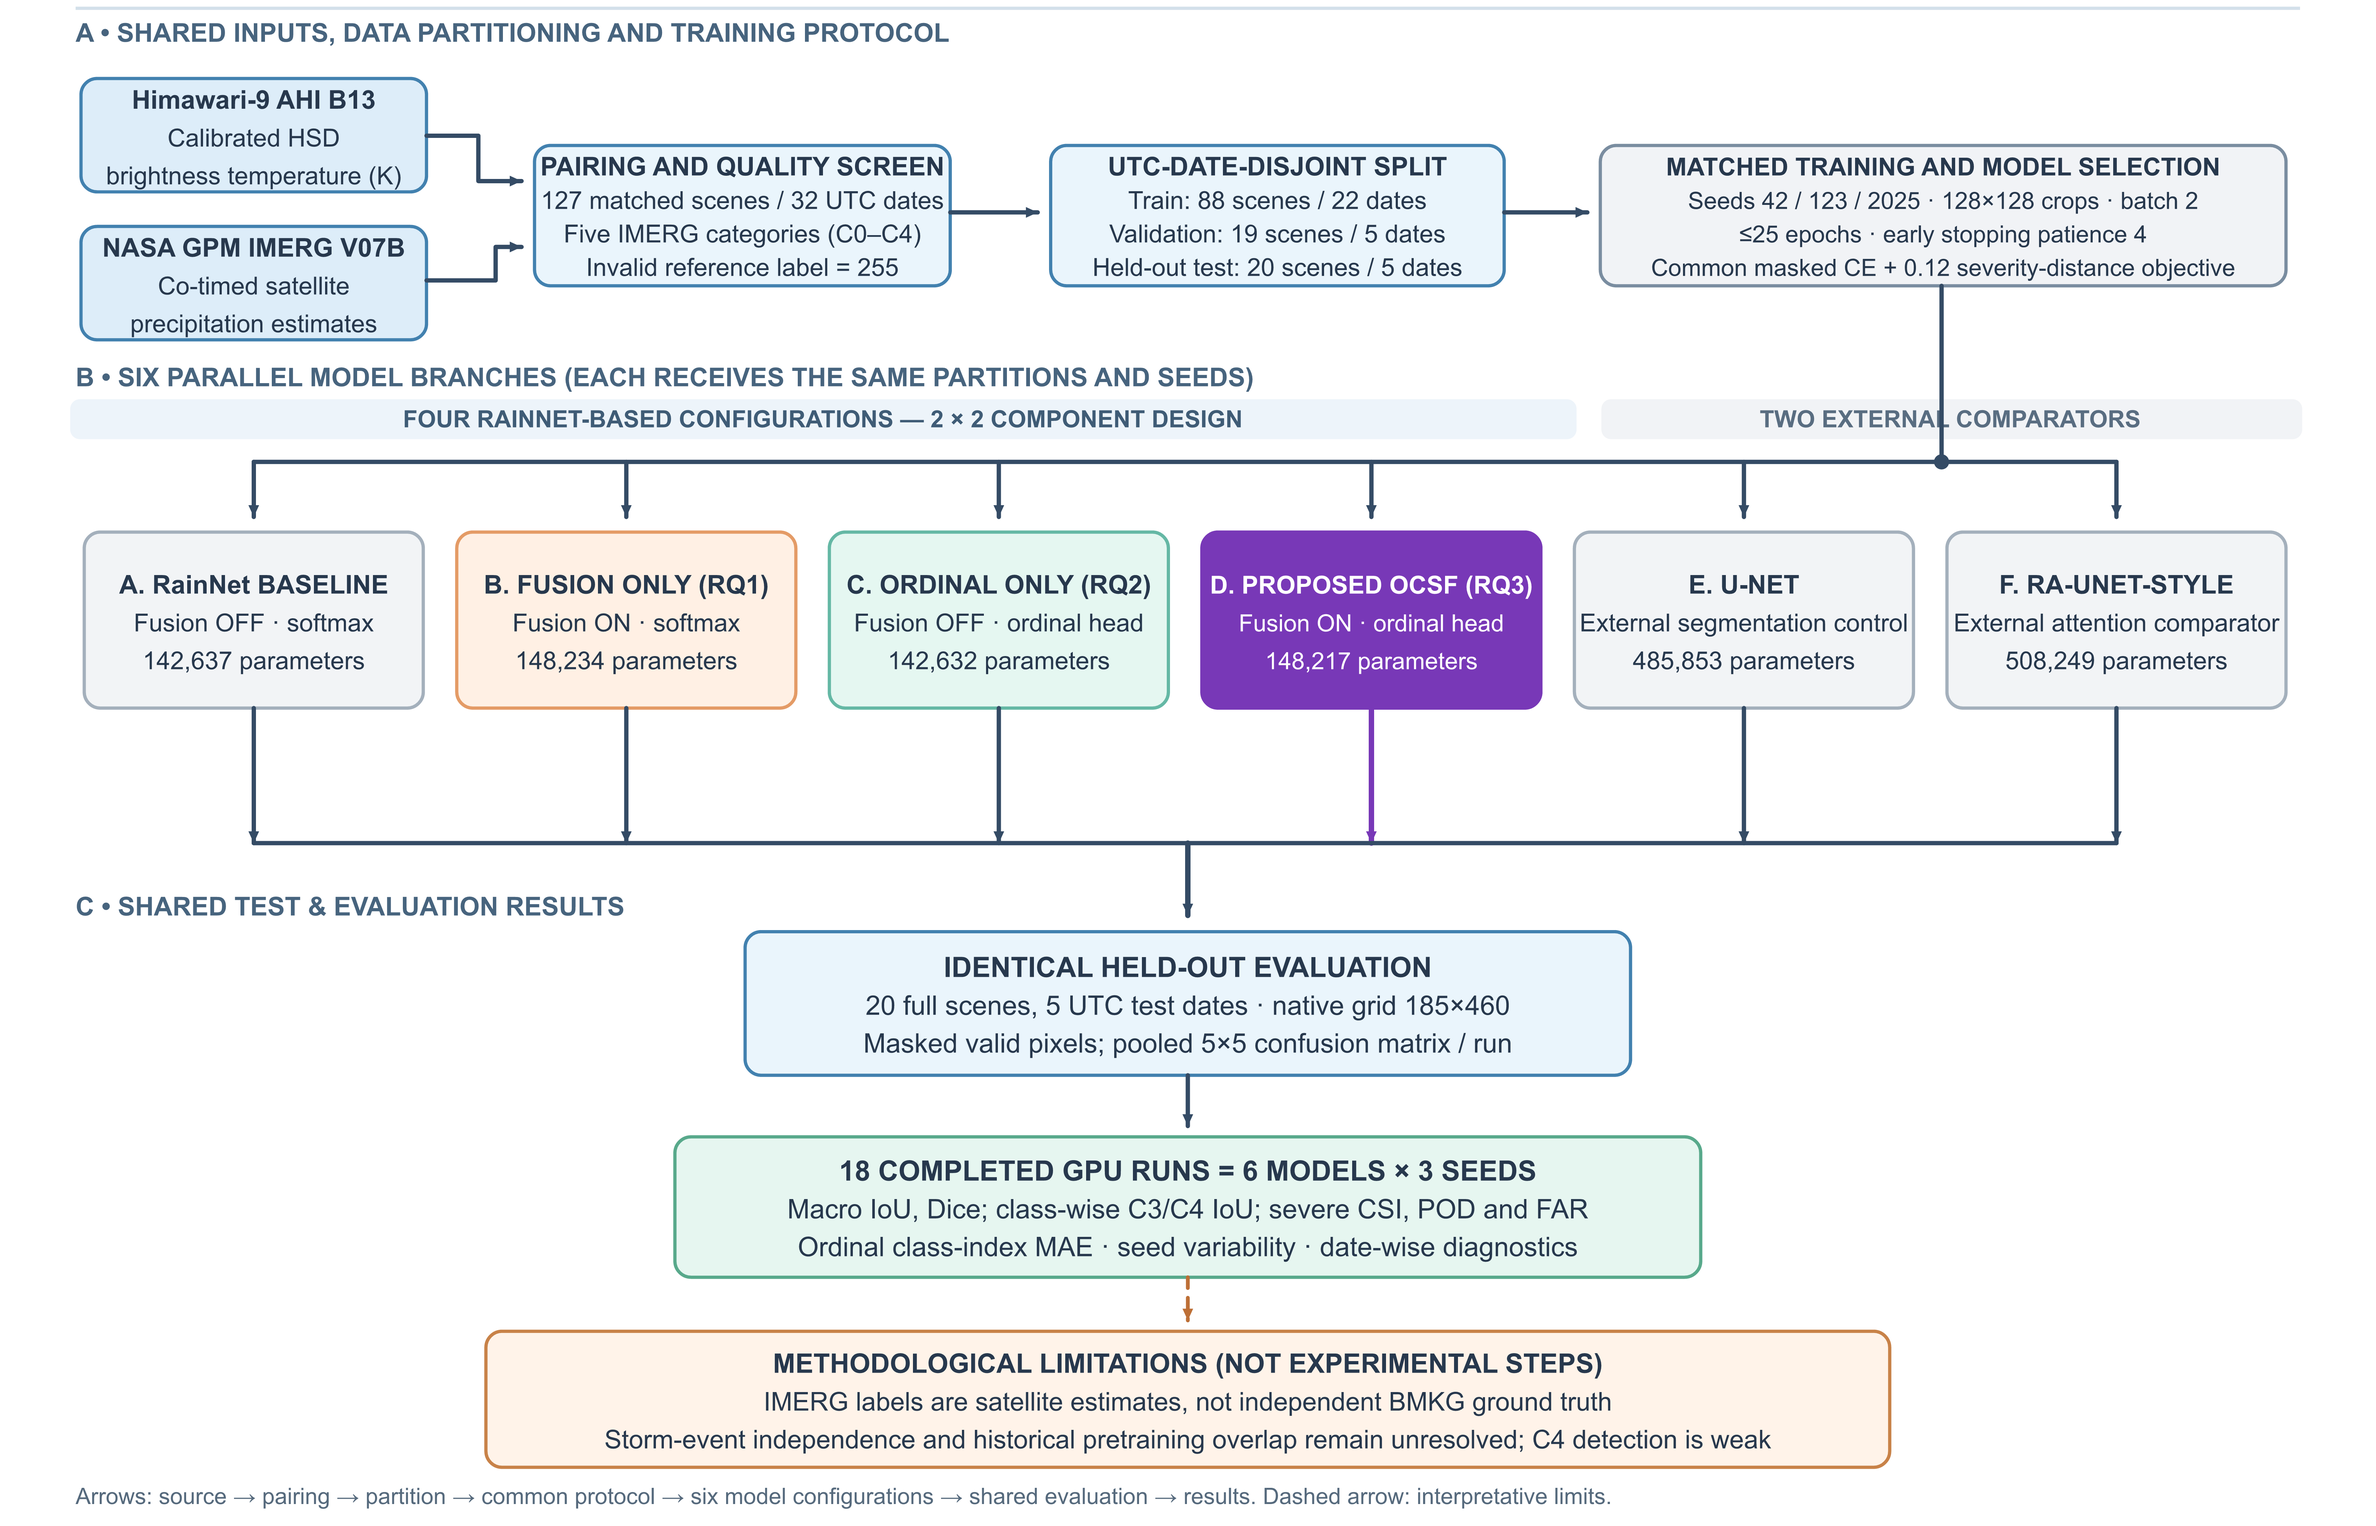
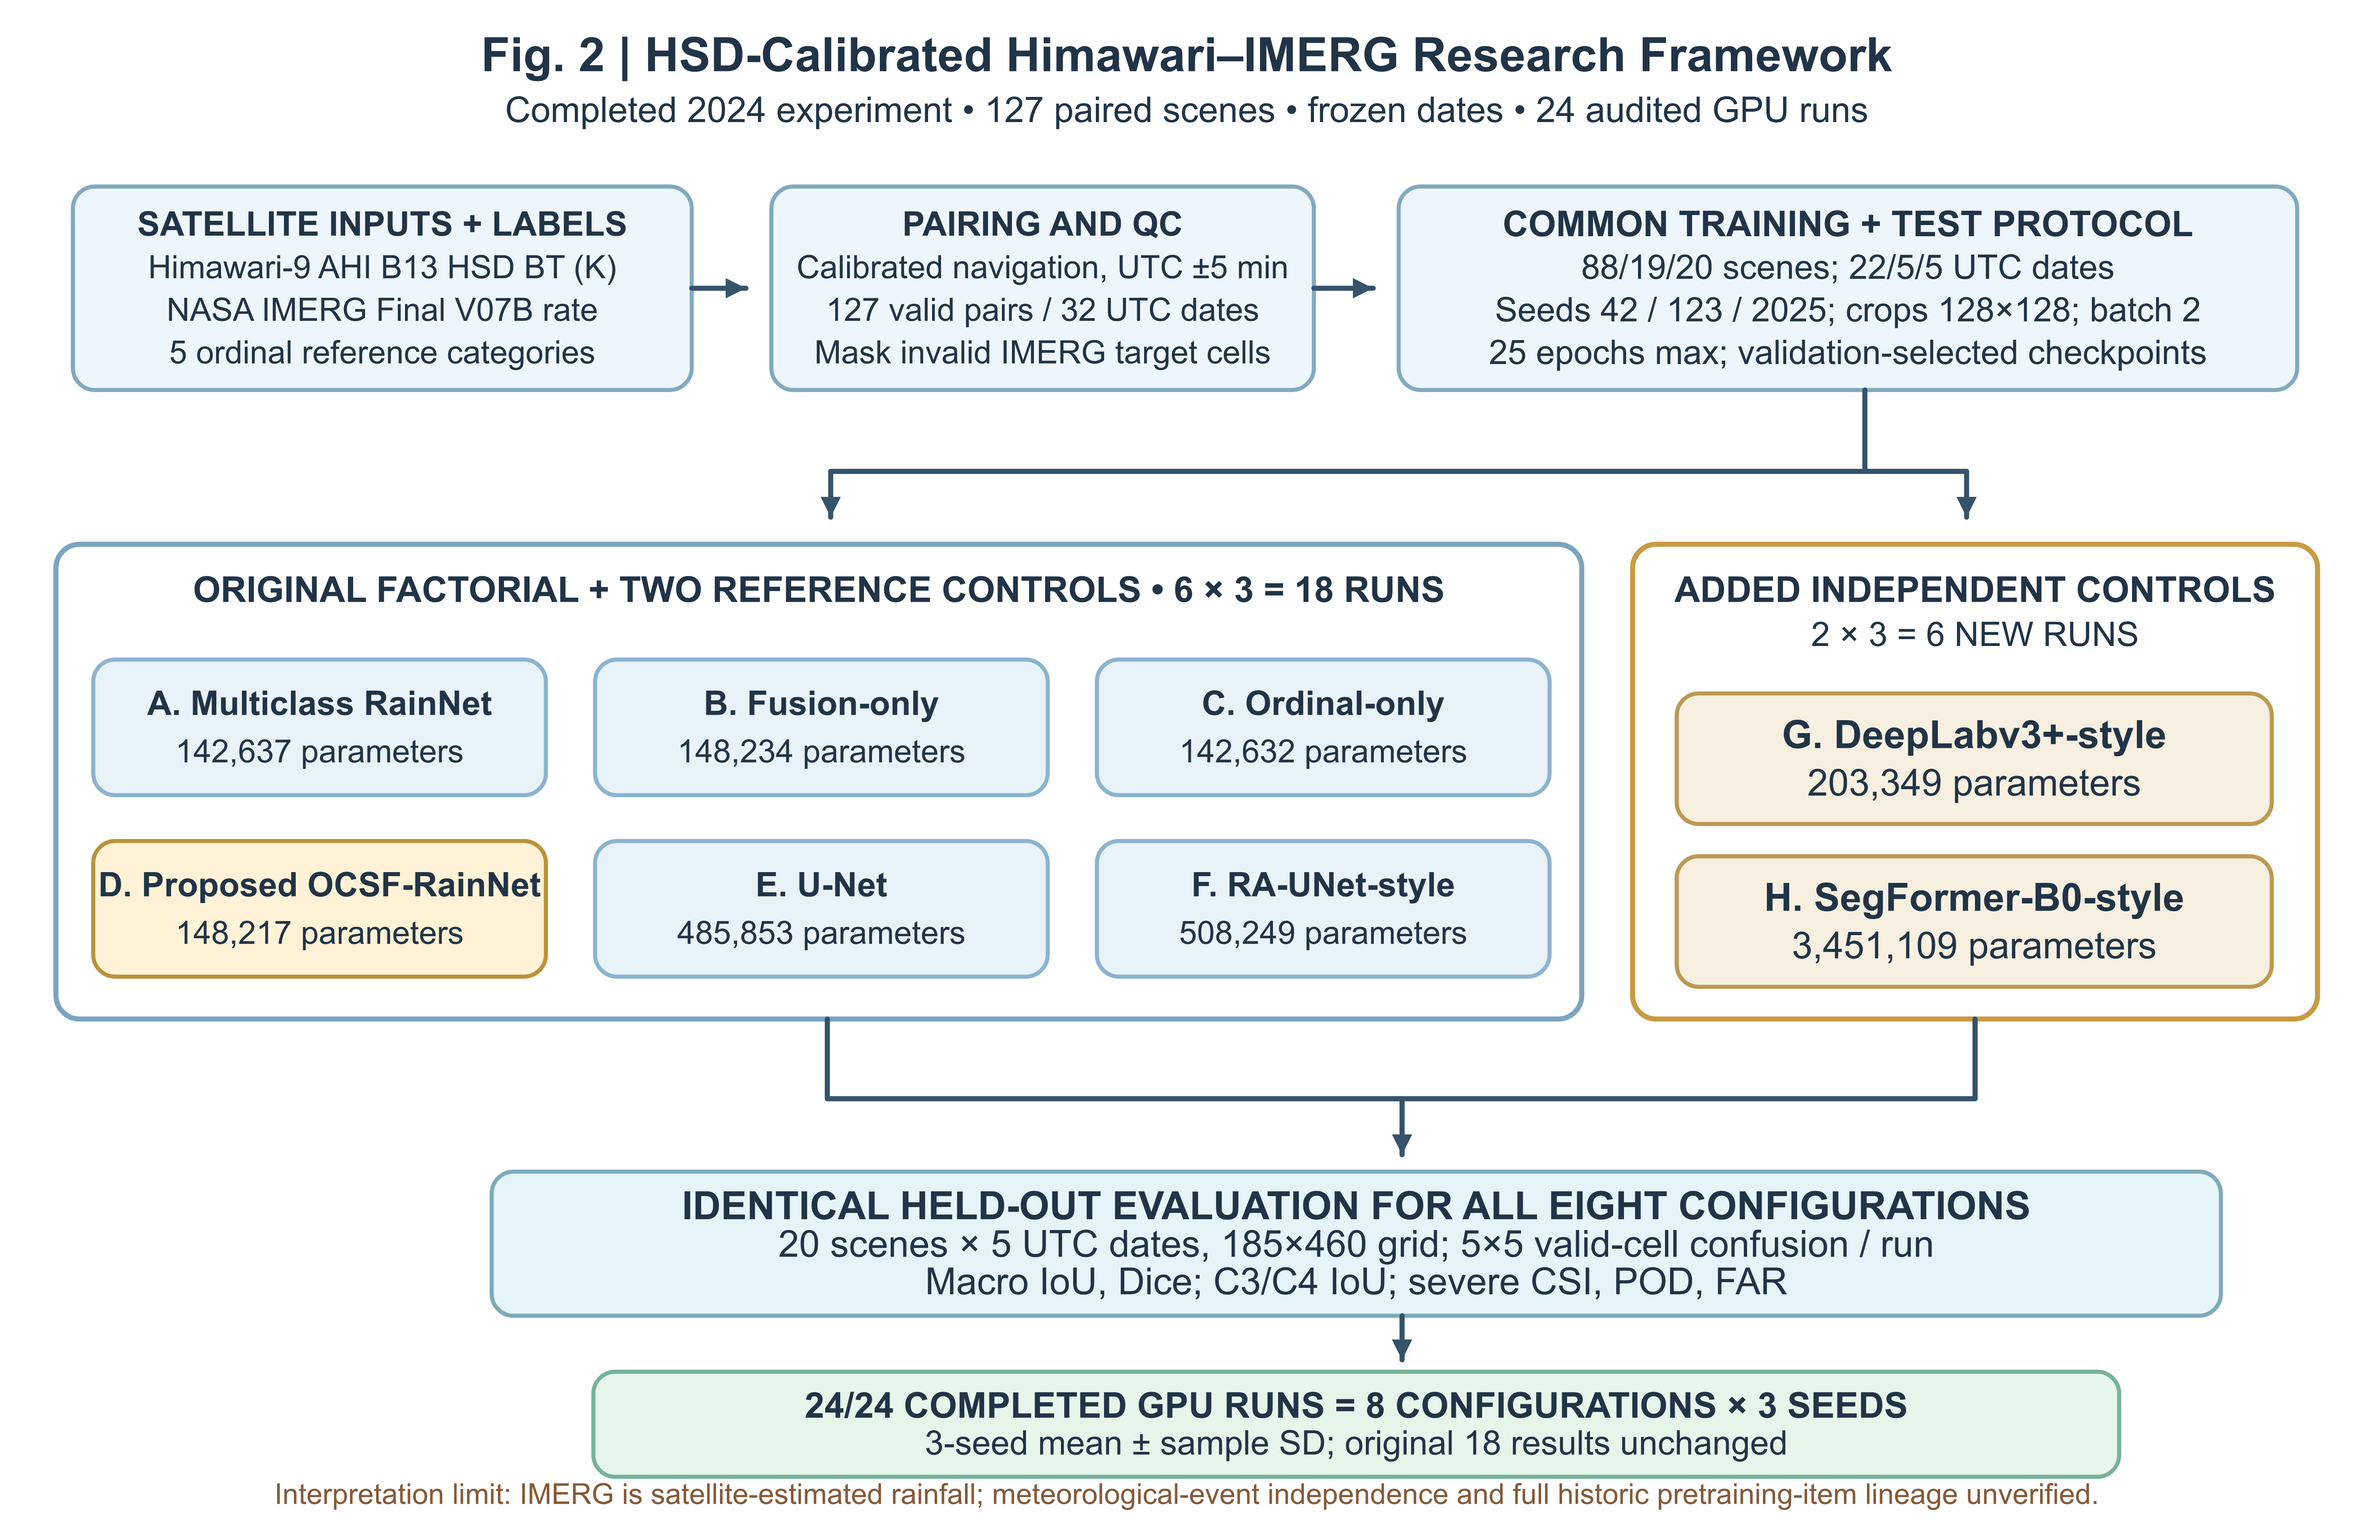
figures: align V11 research framework with 24 run evidence

diff --git a/README.md b/README.md
@@ -27,7 +27,7 @@ The **original 18/18** runs are unchanged: four RainNet factorial variants, U-Ne
 
 **New inspectable evidence:** [24-run methods and caveats](docs/SOTA_24_RUN_COMPARISON_2026-11-23.md) · [structured validation audit](results/sota_2026-11-23/OCSF_24_RUN_PUBLIC_AUDIT.json) · [8-model mean and SD](results/sota_2026-11-23/eight_model_mean_sd.csv) · [6 per-seed results](results/sota_2026-11-23/new_six_seed_metrics.csv) · [6 test confusion matrices](results/sota_2026-11-23/) · [6 executable Kaggle notebooks](notebooks/kaggle/sota_2026-11-23/) · [external model implementations](src/models/ocsf_sota_external_models.py).
 
-**Figures and journal manuscript:** Fig. 2 is intentionally the original six-branch/18-run core (two later comparator families are **not drawn**); Fig. 3 concerns only RainNet control vs OCSF. The **V11 paper updates Tables 4–6 and Fig. 4–5 for all eight configurations**. Repository image galleries of the original 18 runs are historical subsets, not all 24 runs. The final V11 Word file is delivered separately and the older repository DOCX should not be used as the current manuscript.
+**Figures and journal manuscript:** Fig. 2 is intentionally the original six-branch/18-run core (two later comparator families are **not drawn**); Fig. 3 concerns only RainNet control vs OCSF. The **V11 paper updates Fig. 2, Fig. 4–5 and Tables 4–6 for all eight configurations**. Repository image galleries of the original 18 runs are historical subsets, not all 24 runs. The final V11 Word file is delivered separately and the older repository DOCX should not be used as the current manuscript.
 
 ## Retrospective split integrity and checkpoint provenance (V8 audit, 2026-11-22)
 
@@ -132,9 +132,9 @@ For the severe-event binary collapse, `TPs = sum_(i in S,j in S) M[i,j]`, `FNs =
 
 ---
 
-## Figures 1–3: corrected to the final V8 Springer manuscript
+## Figures 1–3: synchronized with the 24-run Springer manuscript V11
 
-Figure 1 remains the separately labeled historical January 2024 pilot. **Figures 2 and 3 now display the completed-study illustrations corresponding to the V8 Springer manuscript**, rather than the earlier draft (which incorrectly implied that training was incomplete and pictured the legacy JPEG input). The original pre-V8 figure files remain under [legacy_preV8](figures/manuscript/legacy_preV8); [original-figure provenance](metadata/MANUSCRIPT_FIGURE_VERIFICATION.json) is preserved. The revised artwork is available in both [PNG and vector SVG](metadata/MANUSCRIPT_FIGURE_V8_VERIFICATION.json). V8 source figure content and layout were verified against the Word-embedded source; repository PNGs were freshly rasterized from those vectors and are **not claimed to be byte-identical to the DOCX-embedded PNG files**.
+Figure 1 remains the clearly labeled historical January 2024 JPEG pilot. **Figure 2 now illustrates the complete eight-configuration/24-run V11 research framework**; Fig. 3 retains the unchanged RainNet-versus-OCSF architecture. Original six-branch Fig. 2 artwork is preserved under [legacy_18run](figures/manuscript/legacy_18run), and earlier manuscript draft art under [legacy_preV8](figures/manuscript/legacy_preV8). The V11 600-dpi PNG is regenerated from a [vector SVG source](figures/manuscript/Figure_2_V11.svg) and is not asserted to be byte-identical to the Word-embedded PNG. See [V11 figure provenance](metadata/MANUSCRIPT_FIGURE_V11_VERIFICATION.json).
 
 **Figure narratives below follow the revised manuscript:** a short introduction precedes each figure, followed by the caption and an interpretation limited to the completed experiments.
 
@@ -144,17 +144,17 @@ Figure 1 remains the separately labeled historical January 2024 pilot. **Figures
 
 The original pilot illustrates the archived JPEG, IMERG rate, thresholded five-class target, and class distribution; this is not the input dataset used by the later full calibrated experiment.
 
-### Figure 2. Original six-branch calibrated research framework (retained in V11)
+### Figure 2. Completed eight-configuration research framework (manuscript V11)
 
-Figure 2 traces the common source screening and date-disjoint assignment, the four RainNet-family architectural variants, the two external comparators and the shared held-out evaluation. All six models receive the same 127 calibrated HSD–IMERG pairs, fixed train/validation/test partitions and five IMERG categories, with training repeated at seeds 42, 123 and 2025.
+Figure 2 traces two independently executed model groups under the same 127 calibrated Himawari-9 HSD–IMERG pairs, frozen date-disjoint partitions and five IMERG label categories: the original RainNet control/factorial ablations plus U-Net and RA-UNet-style (**18 original runs**); and two later task-matched, randomly initialized DeepLabv3+-style and SegFormer-B0-style comparators (**six additional runs**). Every model has three seeds and the same 20 held-out test scenes.
 
-![Figure 2 V8 — calibrated Himawari–IMERG research framework, six model branches and 18 completed GPU runs](figures/manuscript/Figure_2.png)
+![Figure 2 V11 — shared Himawari–IMERG study framework with eight model branches and 24 completed GPU evaluations](figures/manuscript/Figure_2.png)
 
-*Fig. 2. Research framework for the completed 2024 HSD-calibrated Himawari–IMERG study. The same 127 source–target pairs, UTC-date partitions and IMERG labels are shared across the RainNet baseline, fusion-only, ordinal-only, combined OCSF-RainNet and two external comparators. Eighteen GPU runs were completed; event independence and pretraining overlap remain methodological limitations.*
+*Fig. 2. Research framework of the completed 24-run 2024 calibrated Himawari–IMERG study. The 127 paired scenes, five IMERG rainfall categories, 88/19/20 date-disjoint scene partition and seeds 42/123/2025 are shared across the six original configurations (18 runs) and the two supplementary comparator families (six runs). All eight configurations are evaluated on the same 20 held-out scenes. Event independence, original-pretraining item lineage and ground-measured rainfall validity remain unverified.*
 
-The schematic represents the **original six-configuration 18-run study**, **not** six independently collected test sets and **not** the complete eight-model V11 extension. The two new architecture families reuse the original data and test partition. Arrows merge into the same held-out evaluation. The V8 [digital-duplication / temporal-proximity audit](docs/EVENT_AND_PRETRAINING_AUDIT_2026-11-22.md) provides additional evidence but does not establish independent meteorological systems.
+The figure conveys the **actual eight-configuration evidence** and convergent evaluation, **not eight independently collected test datasets or published SOTA checkpoint equivalence**. The first six completed models and 18 runs remain unchanged; the extra six runs are additive. The V8 retrospective [split and provenance audit](docs/EVENT_AND_PRETRAINING_AUDIT_2026-11-22.md) does not establish independent storm-event identities.
 
-[Open Fig. 2 vector source](figures/manuscript/Figure_2_V8.svg) · [Historical pre-V8 Fig. 2](figures/manuscript/legacy_preV8/Figure_2.png).
+[Open Fig. 2 V11 vector source](figures/manuscript/Figure_2_V11.svg) · [original 18-run framework](figures/manuscript/legacy_18run/Figure_2_18run.png) · [V11 figure audit](metadata/MANUSCRIPT_FIGURE_V11_VERIFICATION.json).
 
 ### Figure 3. Task-matched RainNet control versus proposed OCSF-RainNet (retained in V11)
 
@@ -168,7 +168,7 @@ Pale-blue boxes indicate inherited features; gold boxes identify the proposed co
 
 [Open Fig. 3 vector source](figures/manuscript/Figure_3_V8.svg) · [Historical pre-V8 Fig. 3](figures/manuscript/legacy_preV8/Figure_3.png).
 
-**Method figure copies and legacy records:** [calibrated HSD scene](figures/methods/Figure_1_Calibrated_2024_Representative_Scene.png), [V8 framework copy](figures/methods/Figure_2_Research_Framework_Updated.png), and [V8 architecture copy](figures/methods/Figure_3_Model_Architecture_Updated.png). Older method drawings are retained under [methods/legacy_preV8](figures/methods/legacy_preV8). See the [V8 figure metadata](metadata/MANUSCRIPT_FIGURE_V8_VERIFICATION.json) for source-image hashes and rasterization provenance.
+**Method figure copies and archives:** [calibrated HSD example](figures/methods/Figure_1_Calibrated_2024_Representative_Scene.png), [V11 24-run framework](figures/methods/Figure_2_Research_Framework_Updated.png), and [retained Fig. 3 network schematic](figures/methods/Figure_3_Model_Architecture_Updated.png). The original 18-run Fig. 2 remains in [legacy_18run](figures/manuscript/legacy_18run) and its hash audit has been retained. See [V11 figure verification](metadata/MANUSCRIPT_FIGURE_V11_VERIFICATION.json).
 
 ## New held-out image evidence (revised manuscript Figures 10–14, distinct from supplementary result plots)
 

diff --git a/docs/FIGURES_AND_TABLES_INDEX.md b/docs/FIGURES_AND_TABLES_INDEX.md
@@ -3,10 +3,10 @@
 ## Manuscript-aligned figures (V8) and retained legacy sources
 
 - [Figure 1](../figures/manuscript/Figure_1.png) — exact unmodified Word embedded PNG, SHA-256 verified
-- [Figure 2 — V8 completed research framework](../figures/manuscript/Figure_2.png) — 127 paired scenes, six model configurations, 18 completed GPU runs; [SVG](../figures/manuscript/Figure_2_V8.svg)
+- [Figure 2 — V11 completed research framework](../figures/manuscript/Figure_2.png) — 127 pairs, eight configurations, 24 completed GPU runs; [SVG](../figures/manuscript/Figure_2_V11.svg)
 - [Figure 3 — V8 task-matched control and OCSF-RainNet architecture](../figures/manuscript/Figure_3.png) — inherited backbone versus proposed fusion and ordinal head; [SVG](../figures/manuscript/Figure_3_V8.svg)
 
-Original figure 2/3 files from the earlier draft remain at [figures/manuscript/legacy_preV8](../figures/manuscript/legacy_preV8) and are recorded in [legacy hash manifest](../metadata/MANUSCRIPT_FIGURE_VERIFICATION.json). The updated V8 PNGs are re-rasterized from verified source vector content, not claimed byte-identical to Word-embedded PNGs; [V8 provenance](../metadata/MANUSCRIPT_FIGURE_V8_VERIFICATION.json).
+Original figure 2/3 files from the earlier draft remain at [figures/manuscript/legacy_preV8](../figures/manuscript/legacy_preV8) and are recorded in [legacy hash manifest](../metadata/MANUSCRIPT_FIGURE_VERIFICATION.json). Figure 2 has now been replaced by its V11 eight-configuration diagram, and original 18-run files are archived under [legacy_18run](../figures/manuscript/legacy_18run). Figure 3 remains the V8 architectural diagram. The updated PNGs are rasterized from source vectors without byte-identical DOCX PNG claims; see [V11 provenance](../metadata/MANUSCRIPT_FIGURE_V11_VERIFICATION.json).
 
 ## Experimental figures 4–13
 

diff --git a/docs/SOTA_24_RUN_COMPARISON_2026-11-23.md b/docs/SOTA_24_RUN_COMPARISON_2026-11-23.md
@@ -26,4 +26,4 @@ OCSF-RainNet retains the largest mean Macro IoU **0.2750 ± 0.0014**, macro Dice
 
 Run-level metrics were independently recalculated from archived 5×5 test confusion matrices. All six results were verified as COMPLETE, with 20 test scenes, identical five UTC dates, correct run identities, validation-best epochs, all seed/file hashes, and matching 127-pair input SHA-256. No model was selected with test labels and no additional laptop-GPU training was used.
 
-**Boundaries:** The 24 runs share one small-date and satellite-label task. They are not 24 independent storms, are not comparable with published numerical results on different sensors/horizons, do not prove official architecture replication or event-level statistical superiority, and do not establish ground-measured rainfall performance. The main paper's Fig. 2 remains a schematic of the original 18-run six-branch core; Fig. 3 compares the RainNet control with OCSF only. The manuscript V11 updates the combined eight-model numeric comparisons while preserving that provenance.
+**Boundaries:** The 24 runs share one small-date and satellite-label task. They are not 24 independent storms, are not comparable with published numerical results on different sensors/horizons, do not prove official architecture replication or event-level statistical superiority, and do not establish ground-measured rainfall performance. The main paper's revised Fig. 2 now distinguishes six original configurations/18 unchanged runs from the two supplementary comparator families/six new runs; Fig. 3 continues to compare the RainNet control with OCSF only. The manuscript V11 updates Fig. 2, Fig. 4–5 and Tables 4–6 while preserving prior provenance.
